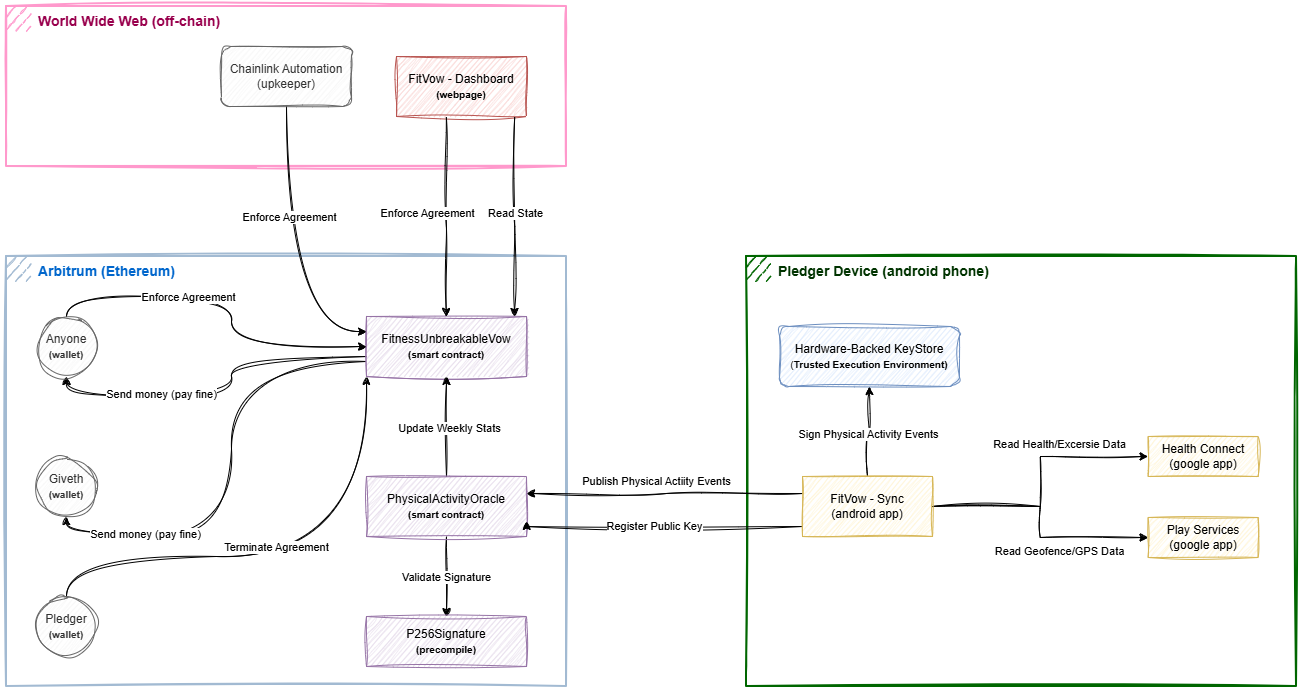
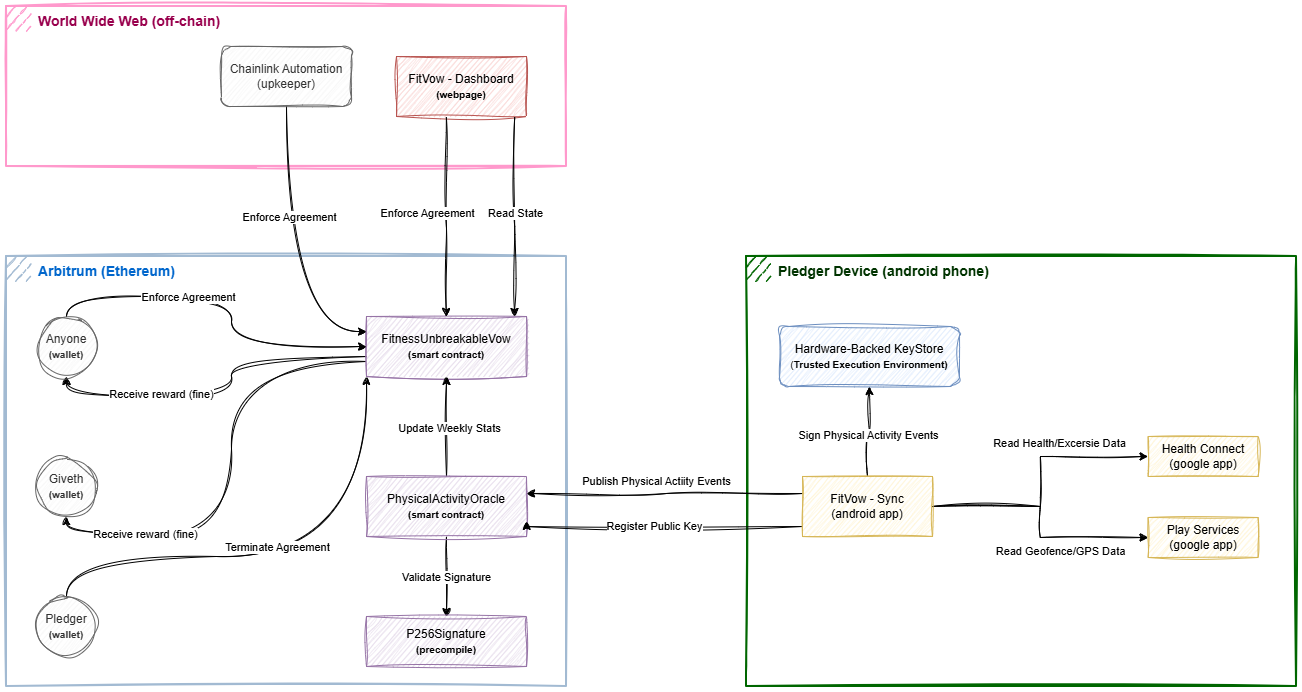
fix: minor fixes

diff --git a/@website/src/pages/main/components/PastWeeksSection.tsx b/@website/src/pages/main/components/PastWeeksSection.tsx
@@ -523,7 +523,7 @@ function PastWeekFailedClaimRewardDetailsModal({
     ...props
 }: PastWeekDetailsModalProps) {
     const enforcerReward = formatCurrency(penaltyAmount / 2, currency);
-    const enforceFuncUrl = getAddressBlockExplorerUrl(vowAddress, network) + "#writeContract#F1";
+    const enforceFuncUrl = getAddressBlockExplorerUrl(vowAddress, network) + "#writeContract#F2";
     const [isLoading, setLoading] = React.useState(false);
     const [error, setError] = React.useState<string | null>(null);
     const [response, setResponse] = React.useState<CollectFineResponse | null>(null);
@@ -661,8 +661,8 @@ function PastWeekFailedClaimRewardDetailsModal({
                 </ul>
                 <h4>Option 1: Collect with a Wallet</h4>
                 <p>
-                    To collect the fine, connect your <b>{network}</b> wallet and confirm the transaction to call the <a href={enforceFuncUrl} target="_blank">#enforceAgreement()</a>. This option is
-                    only available if you have a Wallet app installed like Metamask on your browser and will appear as an orange button on this modal.
+                    To collect the fine, connect your <b>{network === 'arbiSep' ? 'Arbitrum Sepolia' : network}</b> wallet and confirm the transaction to call the <a href={enforceFuncUrl} target="_blank">#enforceAgreement()</a>. This option is
+                    <b>only available</b> if you have a Wallet app installed like Metamask on your browser and will appear as an orange button on this modal.
                 </p>
                 <h4>Option 2: Collect Manually</h4>
                 <p>
@@ -671,7 +671,7 @@ function PastWeekFailedClaimRewardDetailsModal({
                 </p>
                 <h4>Important Notes</h4>
                 <ul>
-                    <li>This contract is deployed only in the <b>{network}</b> blockchain, make sure to target this network when calling <code>#enforceAgreement()</code>.</li>
+                    <li>This contract is deployed only in the <b>{network === 'arbiSep' ? 'Arbitrum Sepolia' : network}</b> blockchain, make sure to target this network when calling <code>#enforceAgreement()</code>.</li>
                     <li>
                         Calling <code>#enforceAgreement()</code> does NOT require payment, in fact, the function is marked as non-payable and therefore any attempts to send ether with the transaction will automatically revert.
                     </li>

diff --git a/@contract-event-store/src/index.ts b/@contract-event-store/src/index.ts
@@ -10,7 +10,7 @@ dotenv.config();
 export const handler: ScheduledHandler = async (event: any, context) => {
     const { timeLord, physicalActivityOracleAddress, network } = await loadContracts(event?.contractAddress, event?.network);
 
-    const currentWeekIndex = event?.currentWeekIndex || Number(await timeLord.getCurrentWeekIndex());
+    const currentWeekIndex = Number(event?.currentWeekIndex || Number(await timeLord.getCurrentWeekIndex()));
 
     console.log('[INFO] Fetching events for week #' + currentWeekIndex);
     const secondsInOneWeek = Number(await timeLord.SECONDS_IN_ONE_WEEK());
@@ -74,7 +74,13 @@ async function saveToS3(body: string, key: string) {
 
     const s3 = new S3Client({ region });
 
-    await s3.send(new PutObjectCommand({ Bucket: bucket, Key: key, Body: body, ContentType: 'application/json', CacheControl: 'public, max-age=5400' }));
+    await s3.send(new PutObjectCommand({
+        Bucket: bucket,
+        Key: key,
+        Body: body,
+        ContentType: 'application/json',
+        CacheControl: 'no-cache, no-store, max-age=0, s-maxage=0, must-revalidate',
+    }));
 }
 
 const bigIntNormalizer = (_: unknown, value: unknown) => typeof value === 'bigint' ? Number(value) : value

diff --git a/@website/src/pages/main/components/CurrentWeekStatusSection.tsx b/@website/src/pages/main/components/CurrentWeekStatusSection.tsx
@@ -557,8 +557,8 @@ function RunningCurrentWeekGoalHistory(props: { currentWeek: string; oracleEvent
                         ))}
                     </tbody>
                 </table>
-                <a href={props.oracleEventsUrl} target="_blank">Complete history on Etherscan.</a>
             </div>
+            <a href={props.oracleEventsUrl} target="_blank">Complete history on Etherscan.</a>
         </div>
     );
 }

diff --git a/@website/src/pages/main/style.css b/@website/src/pages/main/style.css
@@ -48,6 +48,7 @@ header {
     position: fixed;
     top: 0px;
     width: 100%;
+    z-index: 10;
 }
 
 section {
@@ -582,6 +583,7 @@ footer {
 }
 
 .modal-wrapper {
+    z-index: 99;
     .sandbox-banner {
         background-color: #B71C1C;
         border: solid 1px white;
